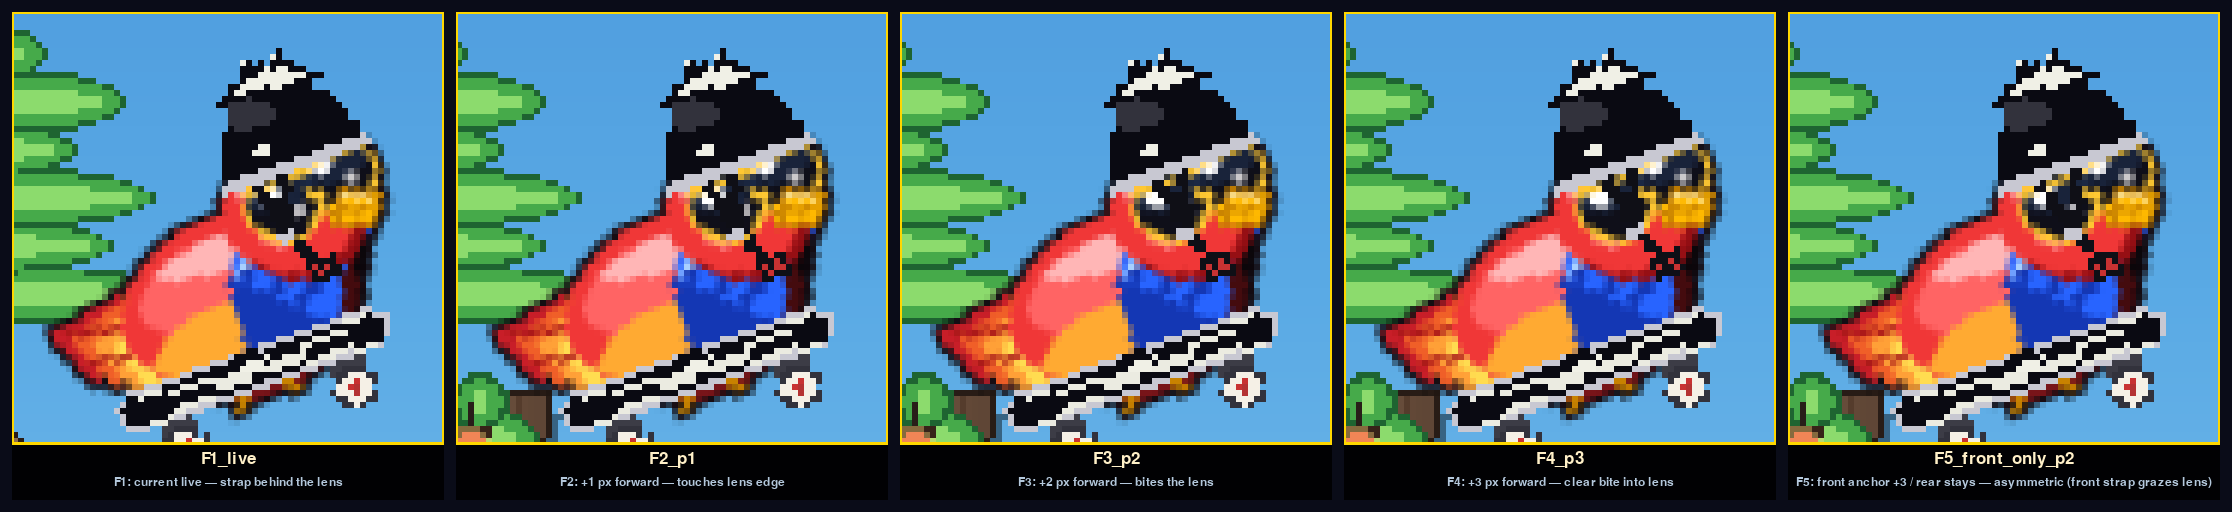
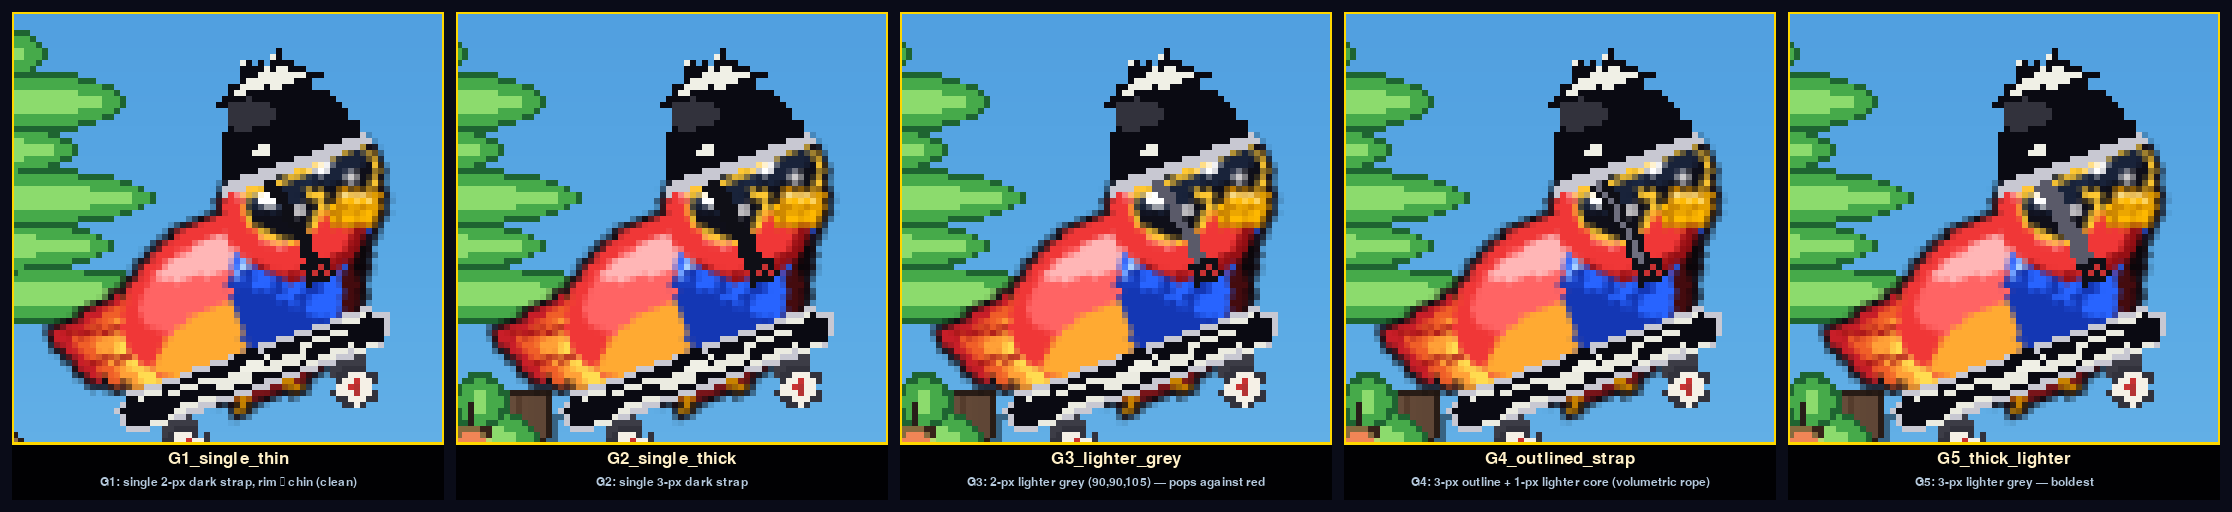
SKATEBOARD chinstrap: 5 single-strap variants visible on face
User clarified the strap should go visibly ON Pip's face, on the
left of (behind) the sunglasses' left edge. The previous Y-strap
was too subtle — the path ducked behind the helmet shadow and
barely overlaid the face.

Simplified to a SINGLE straight strap from helmet rim (10, 20)
straight down to chin clip (13, 37), crossing Pip's cheek on the
left of the sunglasses. 5 visibility variants:

  G1 — 2-px dark strap (clean, subtle)
  G2 — 3-px dark strap (thicker, bolder)
  G3 — 2-px lighter grey (90,90,105) — pops against red
  G4 — 3-px outline + 1-px lighter core (volumetric)
  G5 — 3-px lighter grey (boldest)

https://claude.ai/code/session_01Ms85cBEeRiAtxZBCNh5vN5

diff --git a/tools/render_helmet_chinstrap_iterate.py b/tools/render_helmet_chinstrap_iterate.py
@@ -684,20 +684,14 @@ def cs_t5_curved_single(bird, surf, cx, cy, flipped):
     _anchor_and_blit(bird, surf, helm, cx, cy, flipped)
 
 
-def _live_chinstrap_at(helm, hw, hh, pad, drop,
-                       fa, ra, junction, clip_centre,
-                       strap_col=(15, 15, 22)):
-    """Live chinstrap painter, parameterised on anchor / junction /
-    clip positions. fa = front anchor, ra = rear anchor."""
+def _single_strap_chinstrap(helm, hw, hh, pad, drop,
+                            anchor, clip_centre,
+                            strap_col=(15, 15, 22),
+                            thick=2):
+    """Single straight strap from helmet rim to chin clip + clip."""
     OUT     = (15, 15, 22)
-    CHROME  = (200, 200, 210)
     BUCKLE  = (200, 50, 50)
-    pygame.draw.line(helm, strap_col, fa, junction, 2)
-    pygame.draw.line(helm, strap_col, ra, junction, 2)
-    pygame.draw.line(helm, strap_col, junction, clip_centre, 2)
-    adj = pygame.Rect(junction[0] - 1, junction[1] - 1, 3, 2)
-    pygame.draw.rect(helm, (30, 30, 40), adj)
-    pygame.draw.rect(helm, CHROME, adj, 1)
+    pygame.draw.line(helm, strap_col, anchor, clip_centre, thick)
     clip = pygame.Rect(clip_centre[0] - 2, clip_centre[1] - 2, 5, 4)
     pygame.draw.rect(helm, BUCKLE, clip)
     pygame.draw.rect(helm, OUT, clip, 1)
@@ -706,36 +700,83 @@ def _live_chinstrap_at(helm, hw, hh, pad, drop,
                      (clip.x + 2, clip.bottom - 1), 1)
 
 
-def _mk_variant(fa_x, ra_x, jx, cx):
-    """Build a variant function for the given anchor/junction/clip
-    x offsets. Keeps y positions consistent (rim, ear, chin)."""
-    def fn(bird, surf, scx, scy, flipped):
-        helm, hw, hh, pad, drop = _new_helm(bird.shrink_scale)
-        _paint_dome(helm, hw, hh, pad, bird.shrink_scale)
-        rim_y = pad + hh + 1
-        _live_chinstrap_at(helm, hw, hh, pad, drop,
-                           fa=(pad + fa_x, rim_y),
-                           ra=(pad + ra_x, rim_y),
-                           junction=(jx, 30),
-                           clip_centre=(cx, 37))
-        _anchor_and_blit(bird, surf, helm, scx, scy, flipped)
-    return fn
+def cs_g1_single_thin(bird, surf, cx, cy, flipped):
+    """G1 — Single 2-px strap, dark, from rim to chin. Clean line
+    overlaying Pip's face on the left of the sunglasses."""
+    helm, hw, hh, pad, drop = _new_helm(bird.shrink_scale)
+    _paint_dome(helm, hw, hh, pad, bird.shrink_scale)
+    _single_strap_chinstrap(helm, hw, hh, pad, drop,
+                            anchor=(10, pad + hh + 1),
+                            clip_centre=(13, 37), thick=2)
+    _anchor_and_blit(bird, surf, helm, cx, cy, flipped)
 
 
-# Sunglasses left edge sits around helm surface x=13. Push the strap
-# path progressively forward (higher x) in 1-px increments so the
-# strap grazes the back edge of the lens.
+def cs_g2_single_thick(bird, surf, cx, cy, flipped):
+    """G2 — Single 3-px strap. Thicker, more visible."""
+    helm, hw, hh, pad, drop = _new_helm(bird.shrink_scale)
+    _paint_dome(helm, hw, hh, pad, bird.shrink_scale)
+    _single_strap_chinstrap(helm, hw, hh, pad, drop,
+                            anchor=(10, pad + hh + 1),
+                            clip_centre=(13, 37), thick=3)
+    _anchor_and_blit(bird, surf, helm, cx, cy, flipped)
+
+
+def cs_g3_lighter_grey(bird, surf, cx, cy, flipped):
+    """G3 — 2-px strap with lighter grey colour (90, 90, 105) so it
+    pops against Pip's red feathers."""
+    helm, hw, hh, pad, drop = _new_helm(bird.shrink_scale)
+    _paint_dome(helm, hw, hh, pad, bird.shrink_scale)
+    _single_strap_chinstrap(helm, hw, hh, pad, drop,
+                            anchor=(10, pad + hh + 1),
+                            clip_centre=(13, 37),
+                            strap_col=(90, 90, 105), thick=2)
+    _anchor_and_blit(bird, surf, helm, cx, cy, flipped)
+
+
+def cs_g4_outlined_strap(bird, surf, cx, cy, flipped):
+    """G4 — Outlined strap: 3-px dark outline + 1-px lighter core
+    so the strap has visible volume."""
+    helm, hw, hh, pad, drop = _new_helm(bird.shrink_scale)
+    _paint_dome(helm, hw, hh, pad, bird.shrink_scale)
+    OUT  = (15, 15, 22)
+    CORE = (110, 110, 125)
+    anchor = (10, pad + hh + 1)
+    clip_centre = (13, 37)
+    pygame.draw.line(helm, OUT,  anchor, clip_centre, 3)
+    pygame.draw.line(helm, CORE, anchor, clip_centre, 1)
+    BUCKLE = (200, 50, 50)
+    clip = pygame.Rect(clip_centre[0] - 2, clip_centre[1] - 2, 5, 4)
+    pygame.draw.rect(helm, BUCKLE, clip)
+    pygame.draw.rect(helm, OUT, clip, 1)
+    pygame.draw.line(helm, OUT,
+                     (clip.x + 2, clip.y),
+                     (clip.x + 2, clip.bottom - 1), 1)
+    _anchor_and_blit(bird, surf, helm, cx, cy, flipped)
+
+
+def cs_g5_thick_lighter(bird, surf, cx, cy, flipped):
+    """G5 — 3-px strap in lighter grey. The boldest, most visible
+    single-strap option."""
+    helm, hw, hh, pad, drop = _new_helm(bird.shrink_scale)
+    _paint_dome(helm, hw, hh, pad, bird.shrink_scale)
+    _single_strap_chinstrap(helm, hw, hh, pad, drop,
+                            anchor=(10, pad + hh + 1),
+                            clip_centre=(13, 37),
+                            strap_col=(90, 90, 105), thick=3)
+    _anchor_and_blit(bird, surf, helm, cx, cy, flipped)
+
+
 CHINSTRAP_VARIANTS = [
-    ("F1_live",      _mk_variant(fa_x=8,  ra_x=4,  jx=10, cx=14),
-     "F1: current live — strap behind the lens"),
-    ("F2_p1",        _mk_variant(fa_x=9,  ra_x=5,  jx=11, cx=15),
-     "F2: +1 px forward — touches lens edge"),
-    ("F3_p2",        _mk_variant(fa_x=10, ra_x=6,  jx=12, cx=15),
-     "F3: +2 px forward — bites the lens"),
-    ("F4_p3",        _mk_variant(fa_x=11, ra_x=7,  jx=13, cx=16),
-     "F4: +3 px forward — clear bite into lens"),
-    ("F5_front_only_p2", _mk_variant(fa_x=11, ra_x=5, jx=12, cx=15),
-     "F5: front anchor +3 / rear stays — asymmetric (front strap grazes lens)"),
+    ("G1_single_thin",     cs_g1_single_thin,
+     "G1: single 2-px dark strap, rim → chin (clean)"),
+    ("G2_single_thick",    cs_g2_single_thick,
+     "G2: single 3-px dark strap"),
+    ("G3_lighter_grey",    cs_g3_lighter_grey,
+     "G3: 2-px lighter grey (90,90,105) — pops against red"),
+    ("G4_outlined_strap",  cs_g4_outlined_strap,
+     "G4: 3-px outline + 1-px lighter core (volumetric rope)"),
+    ("G5_thick_lighter",   cs_g5_thick_lighter,
+     "G5: 3-px lighter grey — boldest"),
 ]
 
 
